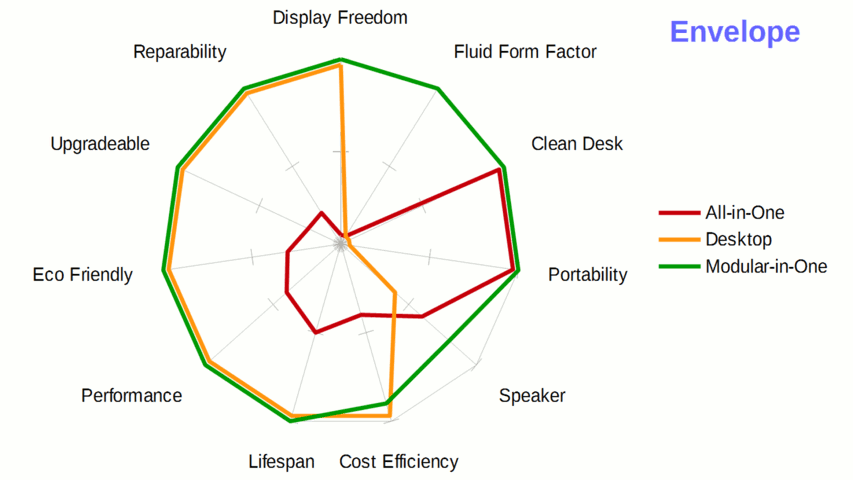
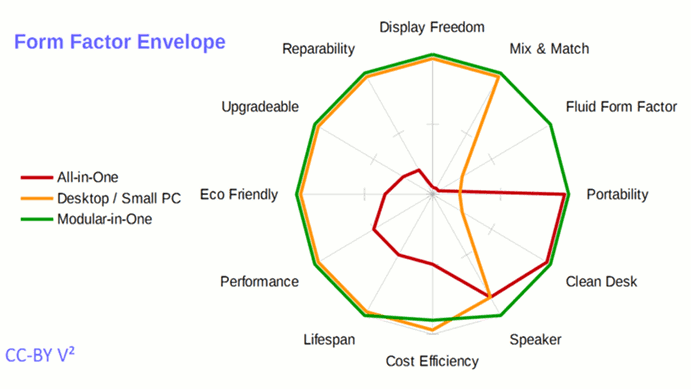
Updated break-through

diff --git a/_layouts/home.html b/_layouts/home.html
@@ -595,7 +595,7 @@
 </div>
 
 <div class="feature-section full-width-image" id="breakthrough-modular">
-  <img class="img-responsive mobile-full-width-img" src="{{site.baseurl}}/images/home/breakthrough-m.png" alt="">
+  <img class="img-responsive mobile-full-width-img" src="{{site.baseurl}}/images/home/breakthrough-sintel-m.jpg" alt="">
   <div class="full-width-content">
     <div class="container">
       <h2 class="title">Breakthrough: Modular-in-One Form Factor</h2>
@@ -615,14 +615,88 @@
 <div class="feature-section feature-modules vertical-tabs" style="background: #FFF">
   <div class="container">
     <div class="row">
-      <div class="col-sm-6">
-        <img class="img-responsive" src="{{site.baseurl}}/images/home/envelope.png" alt="">
+      <div class="col-sm-6 callout-container" data-tabs="tabs">
+        <img class="img-responsive" src="{{site.baseurl}}/images/home/envelope-2.png" alt="">
+        <a class="callout" style="top: 8%; left: 3.5%;width: 30.5%;" data-toggle="tab" href="#envelope-form-factor"></a>
+        <a class="callout" style="top: 3.8%;left: 53%;width: 18%;" data-toggle="tab" href="#envelope-display-freedom"></a>
+        <a class="callout" style="top: 18.5%;left: 3%;width: 20%;" data-toggle="tab" href="#envelope-why"></a>
+        <a class="callout" style="top: 9.5%;left: 72%;width: 12.5%;" data-toggle="tab" href="#envelope-mix-match"></a>
+        <a class="callout" style="top: 24.5%;left: 79.5%;width: 17.5%;" data-toggle="tab" href="#envelope-fluid-factor"></a>
+        <a class="callout" style="top: 47.5%;left: 82%;width: 11.5%;" data-toggle="tab" href="#envelope-portability"></a>
+        <a class="callout" style="top: 70%;left: 80%;width: 11.5%;" data-toggle="tab" href="#envelope-clean-desk"></a>
+        <a class="callout" style="top: 84.7%;left: 72%;width: 8.5%;" data-toggle="tab" href="#envelope-speakers"></a>
+        <a class="callout" style="top: 90.5%;left: 55%;width: 14.5%;" data-toggle="tab" href="#envelope-cost"></a>
+        <a class="callout" style="top: 85%;left: 43%;width: 9.6%;" data-toggle="tab" href="#envelope-life"></a>
+        <a class="callout" style="top: 70%;left: 32%;width: 12.5%;" data-toggle="tab" href="#envelope-performance"></a>
+        <a class="callout" style="top: 47.7%;left: 29%;width: 12.7%;" data-toggle="tab" href="#envelope-eco"></a>
+        <a class="callout" style="top: 25.2%;left: 31.9%;width: 12.7%;" data-toggle="tab" href="#envelope-upgrade"></a>
+        <a class="callout" style="top: 10.3%;left: 40%;width: 12.5%;" data-toggle="tab" href="#envelope-repair"></a>
+        <a class="callout" style="top: 42.3%;left: 4%;width: 15.5%;" data-toggle="tab" href="#envelope-all-in-one"></a>
+        <a class="callout" style="top: 48.3%;left: 4%;width: 22.5%;" data-toggle="tab" href="#envelope-desktop"></a>
+        <a class="callout" style="top: 54.3%;left: 4%;width: 19.5%;" data-toggle="tab" href="#envelope-modular"></a>
+        <a class="callout" style="top: 89.3%;left: 4%;width: 10.5%;" data-toggle="tab" href="#envelope-cc"></a>
       </div>
       <div class="col-sm-6">
         <h3 class="title">
           Modular-in-One offers the Largest Feature Envelope<br>
           <small>How ViDock-One is a better choice for you than Desktop, All-in-One or Mini-PC:</small>
         </h3>
+        <div class="tab-content">
+          <div class="tab-pane" id="envelope-form-factor">
+          <p><strong>Form Factor Envelope:</strong> Every computer system has a range of conditions under which it will work optimally. This is its envelope. It is not just performance, but the envelope also considers the display, the cost, clean desk and many other factors. The wider the envelope, the more versatile your computer is. Computers are made of form factors. Choosing the right form factor was critical, because you needed to make tradeoffs. The form factor which was strong in one direction was severely limited in others. Here are 12 main factors that characterize the capabilities of a form factor. The form factor envelope diagram explains visually how Modular-in-One pushes the envelope to encompass all key features. Skeptical? Click each feature and each form factor for more information. Note: For sake of simplicity we removed the mini-PC from the form factor envelope chart, because its features will always be rated between the desktop and All-in-One PC. Compliments and thanks go to <a href="https://blog.mingthein.com/2014/06/11/shooting-envelope-what-does-it-mean/">Ming Thein for introducing the idea of product use envelope chart</a> to us.</p>
+        </div>
+          <div class="tab-pane active" id="envelope-why">
+            <p><strong>Why you want it: When shopping:</strong> Until now form factor limitations forced you to make sacrifices when shopping for a new computer. Spending your hard earned cash not on a great solution, but merely on the lesser evil is frustrating — not to mention time consuming. Imagine, not needing to make these choices and sacrifices any more. What if there were a form factor that does it all? Enter the Modular-in-One. Because it contains the envelope of all other form factors it makes your choice simple: The Modular-in-One is always the best choice. In Use: If in the past your use case shifted outside your computer's form factor envelope you were left with but two choices: Buy a new computer or suffer. The Modular-in-One encompasses a much larger envelope to begin with, and in case you find yourself using your computer outside its envelope, than you can upgrade it to contain your new use case.</p>
+          </div>
+          <div class="tab-pane" id="envelope-display-freedom">
+            <p><strong>Display Freedom:</strong> Power users know that choosing the right display can make a difference like day and night. There is so much to say that we dedicated the next module to this topic. Suffice to say here, that All-in-Ones offer very limited choices, whereas desktops provide the most freedom, as you can freely choose any possible combination of features from virtually thousands of displays. The Modular-in-One offers you the same, hence full score as well. In case you look very closely you will find that All-in-Ones require their display to have VESA mount, whereas desktops don't. However, the 100% mark is based not on the total number of displays but on having the freedom to find any display feature combination you want in a display. This is as true for displays with VESA mount as it is for all displays, as most displays have VESA mount and as such you still can choose from thousands of displays.</p>
+          </div>
+          <div class="tab-pane" id="envelope-mix-match">
+            <p><strong>Mix & Match:</strong> All-in-Ones come with only a few base configurations and only a few parts can be customized. As a consequence it may happen to you that when needing one part in a better grade you are forced to upgrade several other parts too, paying for better features you do not need. This sounds more complicated than it is. There is a diagram that visualizes this using displays as an example in the Mix & Match tab in the next module about display freedom.</p>
+          </div>
+          <div class="tab-pane" id="envelope-fluid-factor">
+            <p><strong>Fluid Form Factor:</strong> Both desktop and All-in-One lock you into their form factor. If your use case changes and you need the other form factor than you have no choice but to suffer or to buy a complete new computer again. Whereas the Modular-in-One allows you the conversion from one form factor to another at any time. Let's demonstrate the usefulness with but one example: Say you use a powerful All-in-One as your workstation, but you need to travel with your computer to another location. Shipping an All-in-One is expensive and risky. With the Modular-in-One you can detach the small PC unit and simply bring it with you in your briefcase. In other words, you converted the All-in-One form factor to a mini-PC / Small-Form-Factor-PC form factor.</p>
+          </div>
+          <div class="tab-pane" id="envelope-portability">
+            <p><strong>Portability</strong> Some All-in-Ones are very easy to bring to other locations. Desktops are a nightmare to move. Enough said! The Modular-in-One is more heavy than a similar All-in-One, but it comes with a carry grip, a keyboard holder and you can add accessories to hold all your other desktop stuff too, making it jaw droppingly fast to move and get going again after you arrive.</p>
+          </div>
+          <div class="tab-pane" id="envelope-clean-desk">
+            <p><strong>Clean Desk:</strong> Desktops offer you two choices: A) you make no effort and their cables make your desk look messy or B) you mount the cables to the desk, using a lot of time and reducing poor portability to none. Either one is annoying and hence poor marks for clean desk. All-in-Ones have been the pinnacle of clean computer desks. Hence their popularity over desktops and mini PCs despite their many other drawbacks. The Modular-in-One inherits the functionality of the All-in-One in terms of clean desk.</p>
+          </div>
+          <div class="tab-pane" id="envelope-speakers">
+            <p><strong>Speaker:</strong> For all traditional form factors you can choose either speakers integrated into the display or external speakers. The integrated speakers are very convenient and provide a clean desk, but to many people they do not sound clear and full. Thus the popularity of external speakers. Unfortunately they come with additional cables, cluttering your desk and reducing portability. Hence no full score for external speakers either. The Modular-in-One offers one additional speaker solution where you mount its system speakers (including its cables) to the Modular-in-One platform. Now you have everything: Clear and full sound, clean desk, and portability..</p>
+          </div>
+          <div class="tab-pane" id="envelope-cost">
+            <p><strong>Cost Efficiency:</strong> All-in-One's are more expensive to begin with. Add to that the shorter life-span and reduced reparability, and you end up with significantly larger total cost of ownership, respectively very low cost efficiency. Instead the Modular-in-One has virtually the same low total cost of ownership of a desktop PC. The only difference is the added cost for the Modular-in-One platform, such as ViDock-One.</p>
+          </div>
+          <div class="tab-pane" id="envelope-life">
+            <p><strong>Lifespan:</strong> All-in-One's are slower to begin with, so they become obsolete that much sooner. Combine this with little to no upgradeability, and there is simply not much you can do to extend its life span. Instead the Modular-in-One starts faster. And if one part gets too slow you can easily swap it out for a faster one. You even do not need to retire the whole unit at the same time. ViDock-One is designed to last 50 years. Your display, speaker, power supply and case may last 15 years. Your motherboard may last you eight and your CPU, memory and disk about four years.</p>
+          </div>
+          <div class="tab-pane" id="envelope-performance">
+            <p><strong>Performance:</strong> All-in-Ones often use mobile components and are built to be thin, resulting in less space for components and cooling. Consequently, CPU and GPU performances typically range from 50% to 70% lower when compared to a desktop. Modular-in-One gains full marks because it is made of desktop parts with full performance and full cooling capabilities.</p>
+          </div>
+          <div class="tab-pane" id="envelope-eco">
+            <p><strong>Eco-Friendly:</strong> All-in-Ones have a much shorter lifespan to begin with. Combine this with poor upgradability and reparability and any part that becomes too slow or breaks results in the replacement of the complete — and quite big — unit, thus producing lots of trash and consuming lots of raw materials to produce a replacement. Instead the Modular-in-One is the exact opposite of all that, resulting in a fraction of trash-footprint, as well as material and carbon dioxide foot-print. See → ???</p>
+          </div>
+          <div class="tab-pane" id="envelope-upgrade">
+            <p><strong>Upgradeable:</strong> Desktops always have been the gold standard for upgradability, consequently they earn full marks with flying colors. All-in-Ones on the other hand have been the antithesis of upgradeability, hence the dismal rating. You may even get the feeling that obsolescence was a design goal. And quite the opposite again for the Modular-in-One, which is being made completely of modular desktop parts and as such inheriting the best in class upgradeability. Consequently full score as well.</p>
+          </div>
+          <div class="tab-pane" id="envelope-repair">
+            <p><strong>Reparability:</strong> When something goes wrong with an All-in-One, it all goes wrong. Poor upgradeability also means poor reparability. Instead the Modular-in-One is easy to repair, thanks to being made of modular desktop parts. Simply swap out the broken part!</p>
+          </div>
+          <div class="tab-pane" id="envelope-all-in-one">
+            <p><strong>All-in-One:</strong> Exactly like its name promises, the All-in-One delivers everything in one case. This makes it super-fast to set up, or even to bring it to a new location. A simplicity that keeps your desk clean. This sleek design is what make the All-in-One very popular. Sadly in every other direction the All-in-One is severely limited.</p>
+          </div>
+          <div class="tab-pane" id="envelope-desktop">
+            <p><strong>Desktop:</strong> The desktop is the workhorse. You want highest performance, lowest cost, best upgradeability. The desktop is your form factor. No other had such a large envelope. The desktop shined in every direction, except for portability and clean desk, which remained the unchallenged domain of the All-in-One. The form factor envelope chart explains visually why a desktop user was not happy with an All-in-One and vice versa. Each form factor's strengths were not overlapping at all in their respective envelopes!</p>
+          </div>
+          <div class="tab-pane" id="envelope-modular">
+            <p><strong>Modular-in-One:</strong> The new kid on the block. A community open source development driven by the mission to do away with the limitations of other form factors. To create one form factor that fits all. The form factor envelope visually shows the success of this mission. This larger envelope will increase the computer's life span. Saving the user's money and reducing the ecological footprint.</p>
+          </div>
+          <div class="tab-pane" id="envelope-cc">
+            <p><strong>CC-BY V²: CC-BY:</strong> is short for Creative Commons Attribution license, allowing you to use this materials in your blog, presentation, etc., as long as you link to the original source who created this chart. And that would be V²: An open source form factor standard organization. Their mission is to analyze short comings of existing form factors, identify what improvements are important to the user, the shop and the manufacturer. Next publish the findings as white papers and tune them in discussions with the community. Finally compile form factor standards under CC-BY license, making it available and free to use for everyone. Leading to increases in usability, lifespan and interoperability.</p>
+          </div>
+        </div>
       </div>
     </div>
   </div>
@@ -632,7 +706,7 @@
   <div class="container">
     <div class="row">
       <div class="col-md-6 hidden-xs hidden-sm">
-        <h3 class="title">
+        <h3 class="title text-right">
           Display Freedom of Modular-in-One<br>
           <small>While All-in-One locks you in, the Modular-in-One sets you free to choose the right display for your needs and budget:</small>
         </h3>
@@ -652,7 +726,7 @@
                 <a href="#display-how-it-works-desc"></a>
               </li>
             </ul>
-            <div class="tab-content">
+            <div class="tab-content text-right">
               <div class="tab-pane active" id="display-freedom-desc">
                 <p style="line-height: 1.8em;padding-top: 10px;">The display is the single most important interface to your computer. That's why they come with a staggering amount of sizes and features. Power users know that picking the right combination of size, resolution and features for your application will make a huge difference. In turn, leaving features you do not need behind will save you hundreds of dollars. Desktop users have enjoyed this modularity since 1981. For All-in-One users this modularity is introduced for the first time with the Modular-in-One form factor.</p>
               </div>
@@ -668,7 +742,7 @@
             </div>
           </div>
           <div class="col-md-4">
-            <ul class="nav nav-pills nav-stacked" data-tabs="tabs">
+            <ul class="nav nav-pills nav-stacked text-right" data-tabs="tabs">
               <li class="active">
                 <a href="#display-freedom" data-toggle="tab" multi-tab-button="#display-freedom-desc">
                   Freedom

diff --git a/_sass/pages/_home.scss b/_sass/pages/_home.scss
@@ -2,5 +2,5 @@
   background-image: linear-gradient(to bottom, rgba(0, 0, 0, 0) 80%, rgba(0,0,0,0.3)), linear-gradient(to top, rgba(0, 0, 0, 0) 70%, rgba(0,0,0,0.3)), url($baseurl + "/images/home/space-frontier-new-warp.jpg");
 }
 #breakthrough-modular {
-  background-image: linear-gradient(to bottom, rgba(0, 0, 0, 0) 80%, rgba(0,0,0,0.3)), url($baseurl + "/images/home/breakthrough.png");
+  background-image: linear-gradient(to bottom, rgba(0, 0, 0, 0) 80%, rgba(0,0,0,0.3)), url($baseurl + "/images/home/breakthrough-sintel.jpg");
 }

diff --git a/_sass/components/_callout.scss b/_sass/components/_callout.scss
@@ -1,0 +1,25 @@
+.callout-container {
+  display: block;
+  position: relative;
+  max-width: $on-laptop;
+
+  > img {
+    margin-bottom: 0;
+  }
+}
+
+
+.callout {
+  position: absolute;
+  border-bottom: 2px solid $gray-600;
+  width: 20px;
+  height: 20px;
+  cursor: pointer;
+  transition: all 0.3s ease;
+  visibility: visible;
+
+  &:hover, &.active {
+    transform: scale(1.1,1.1);
+    border-color: $brand-accent;
+  }
+}

diff --git a/_sass/components/_vertical-tabs.scss b/_sass/components/_vertical-tabs.scss
@@ -21,6 +21,14 @@
       max-width: 130px;
     }
 
+    &.text-right {
+      > li {
+        > a {
+          text-align: right;
+        }
+      }
+    }
+
     > li {
       > a {
         border-radius: 30px;

diff --git a/css/main.scss b/css/main.scss
@@ -27,6 +27,7 @@ $baseurl: "{{site.baseurl}}";
 
 @import
   "components/button",
+  "components/callout",
   "components/accordian",
   "components/juxtapose",
   "components/video",
